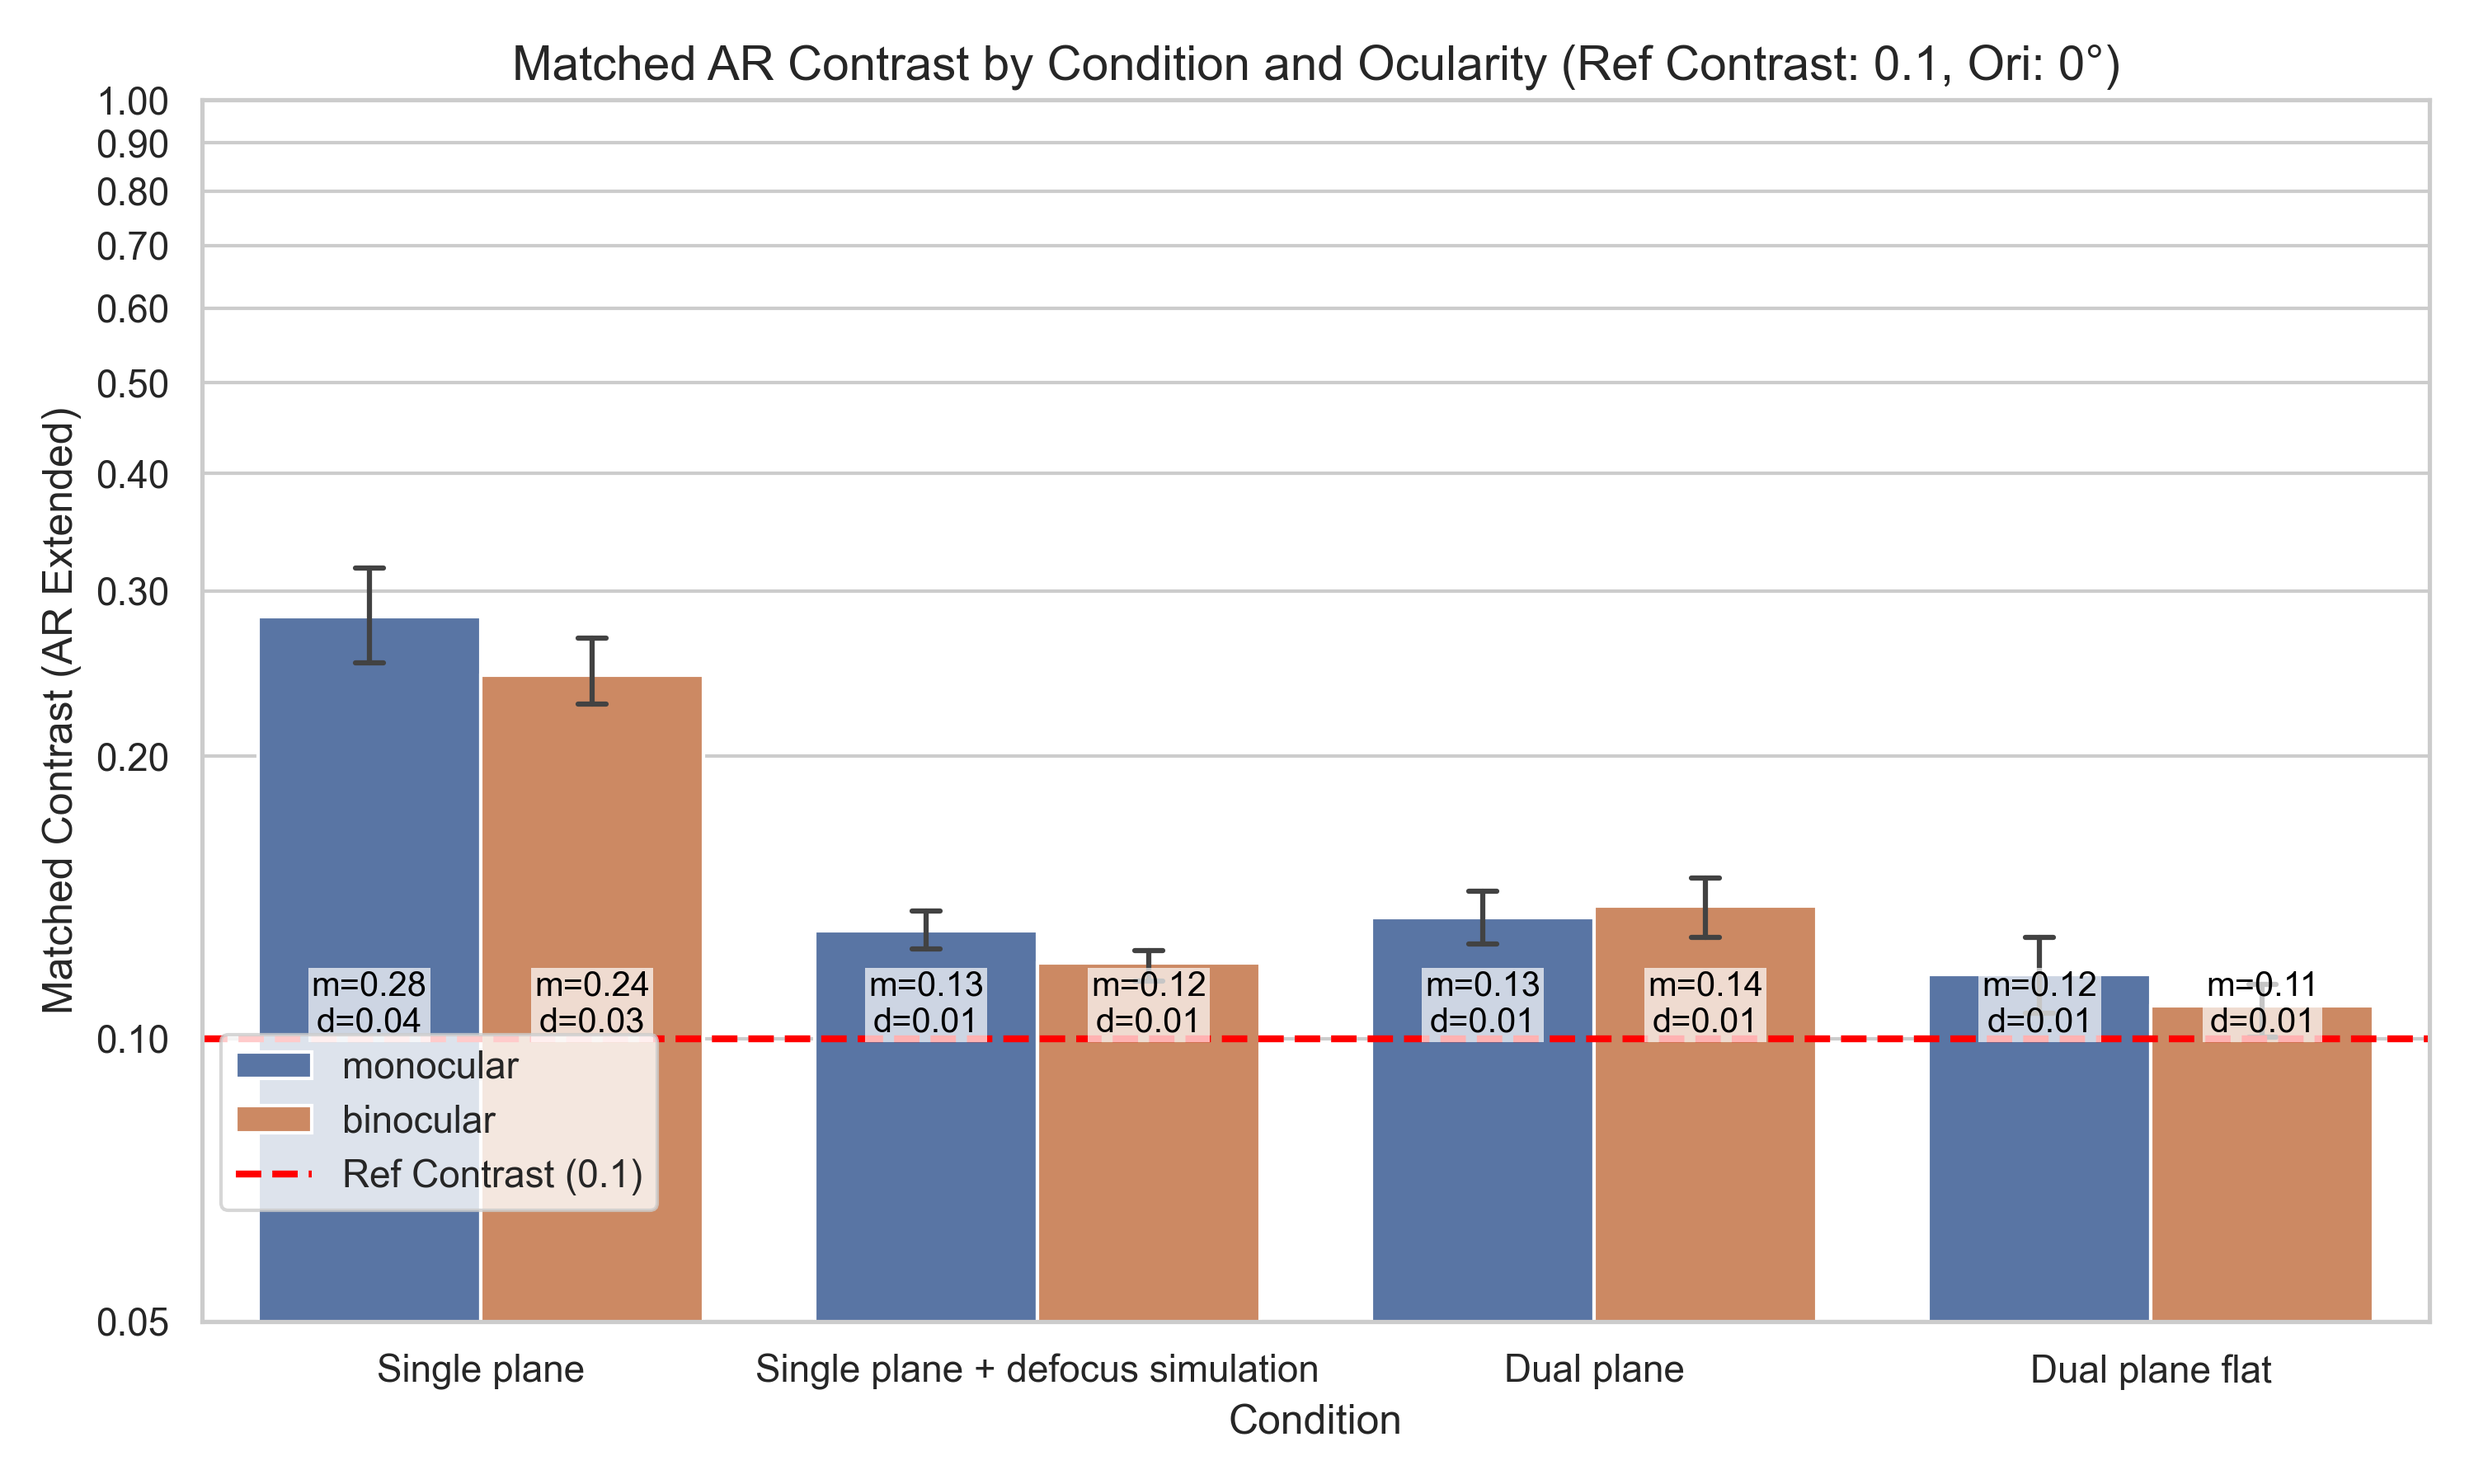
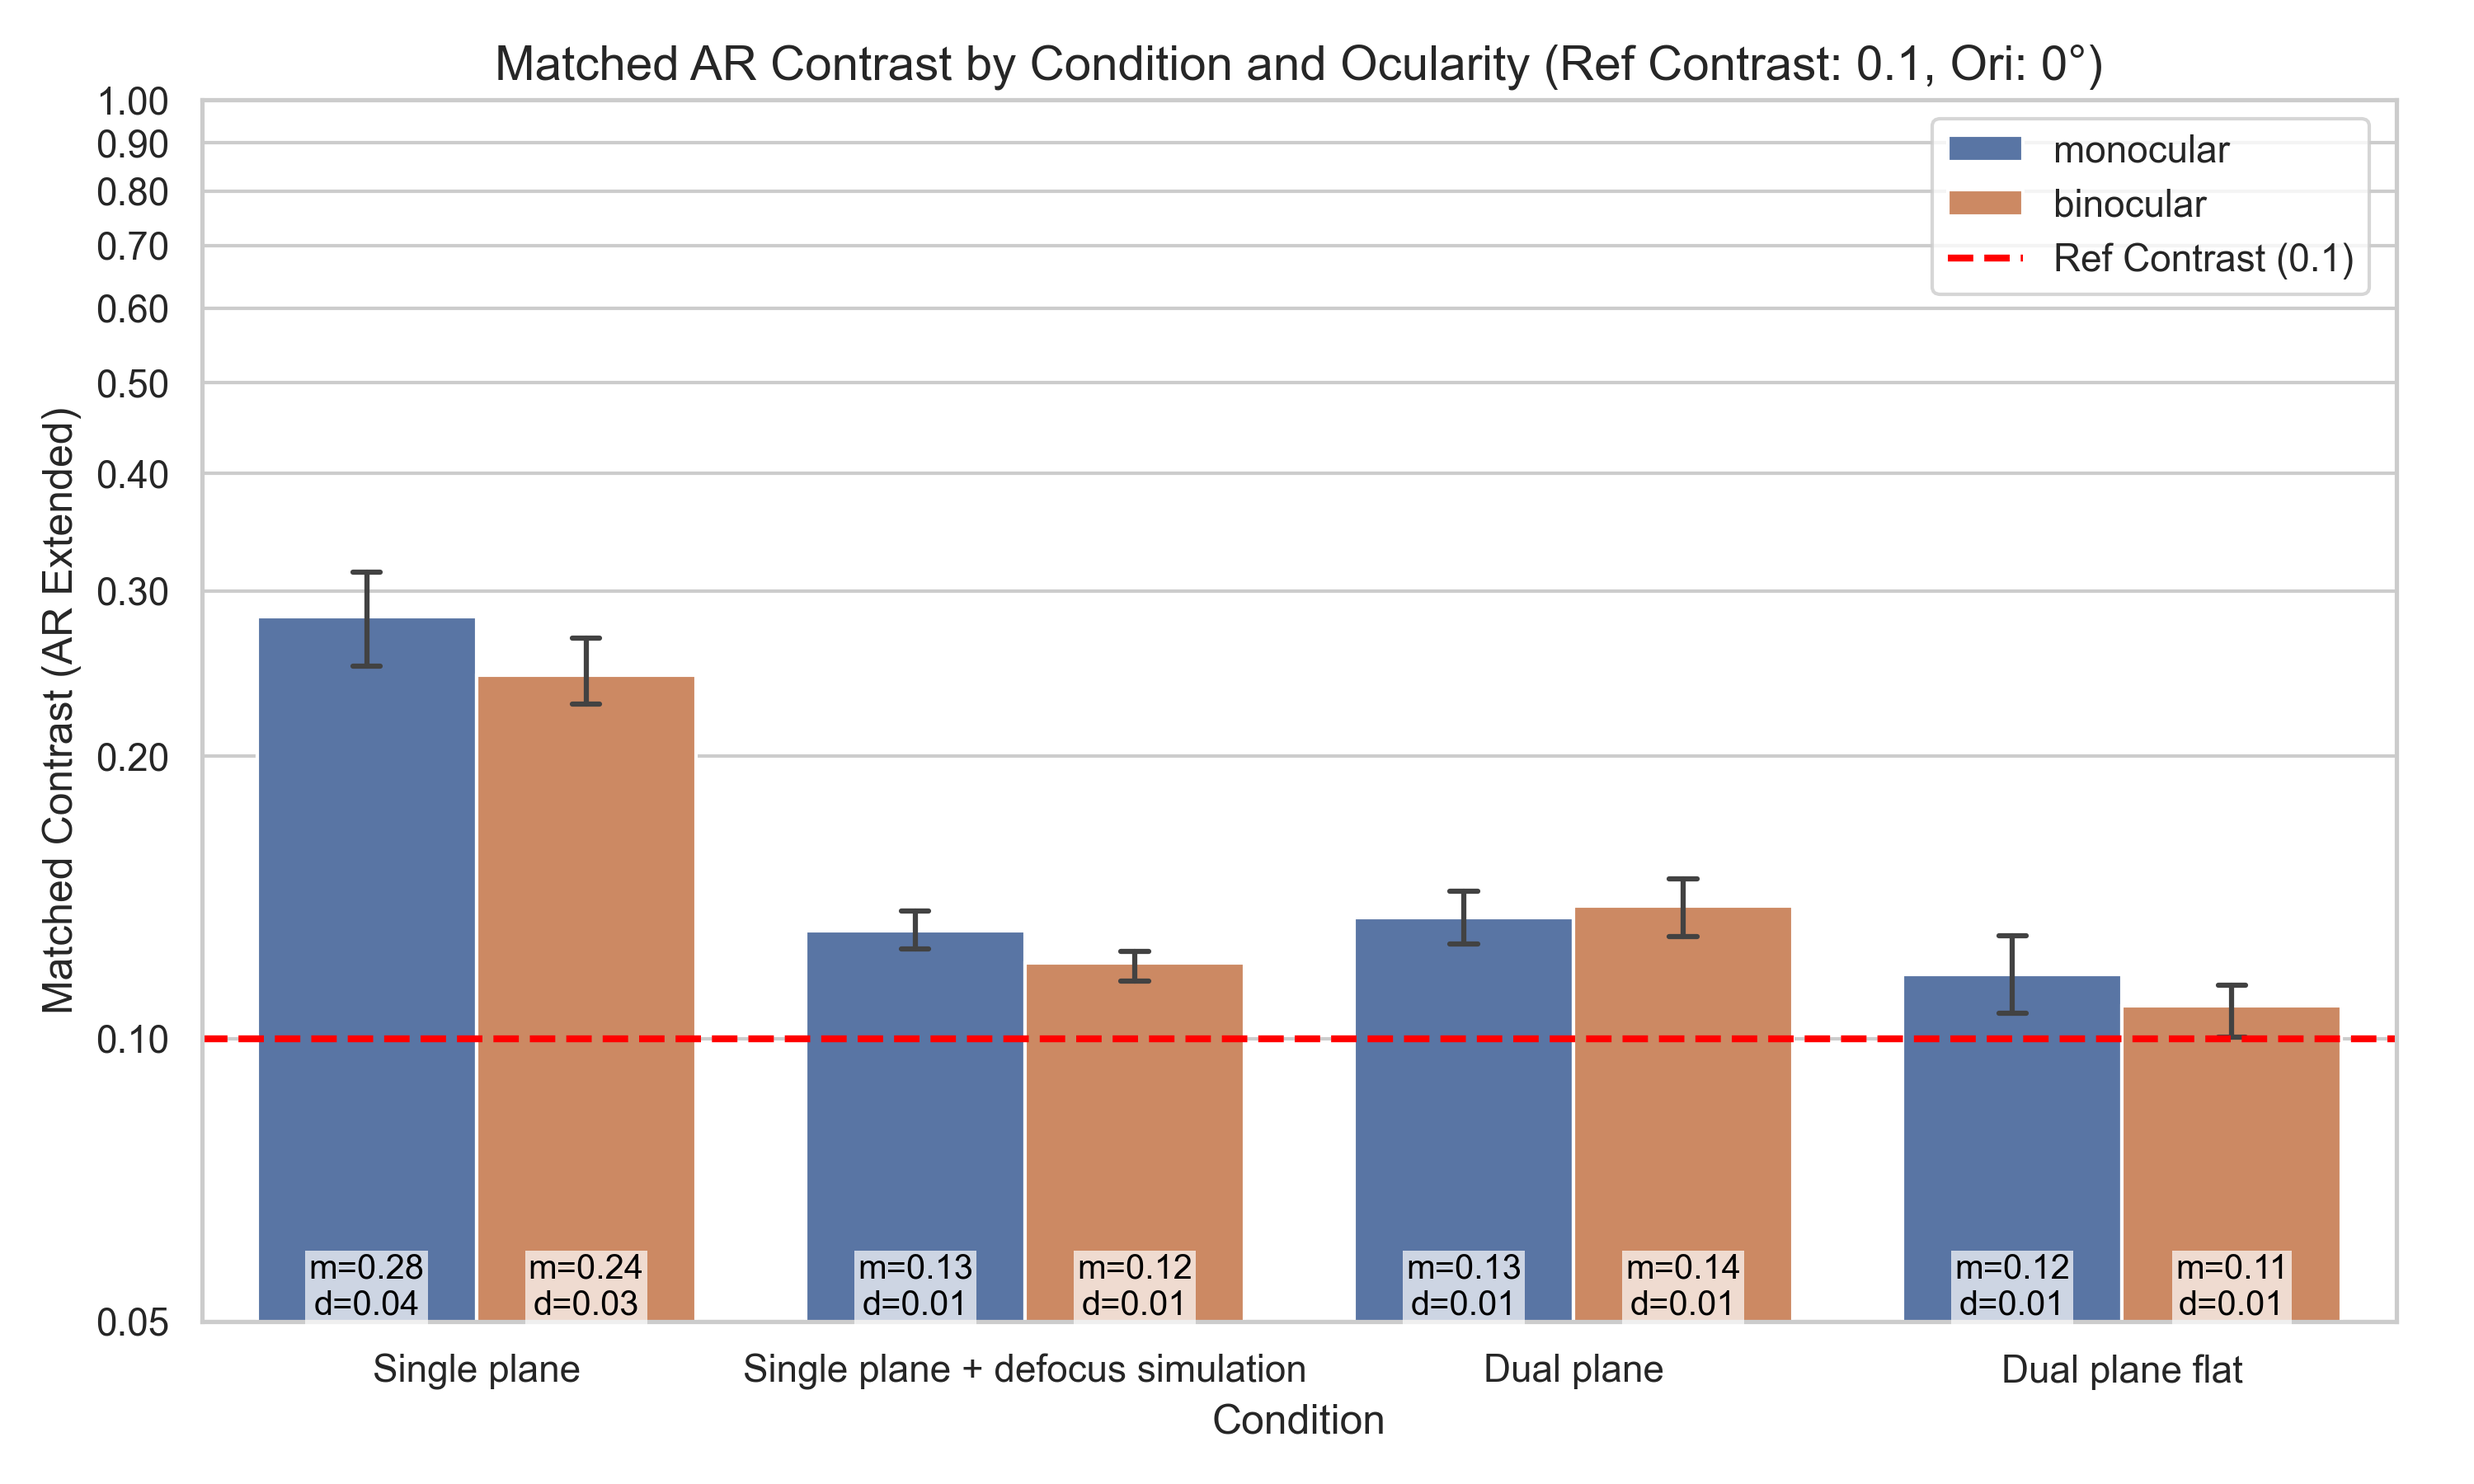
feat: m,d,凡例の表示位置調整

diff --git a/src/experiment/pre-analyze/pre-analyze-matching-ar.py b/src/experiment/pre-analyze/pre-analyze-matching-ar.py
@@ -161,7 +161,7 @@ for ref_c in unique_ref_contrasts:
                             d = subset['Matched_Contrast_AR'].std() 
                             
                             x = p.get_x() + p.get_width() / 2
-                            y = 0.1  # バーの足元付近
+                            y = 0.05  # バーの足元付近
                             
                             ax.text(x, y, f"m={m:.2f}\nd={d:.2f}", ha='center', va='bottom', color='black', fontsize=10,
                                     bbox=dict(facecolor='white', alpha=0.7, edgecolor='none', pad=1))
@@ -183,7 +183,7 @@ for ref_c in unique_ref_contrasts:
         
         # 凡例の設定
         handles, labels = ax.get_legend_handles_labels()
-        ax.legend(handles=handles, labels=labels, bbox_to_anchor=(0, 0.25), loc='upper left', borderaxespad=0.5)
+        ax.legend(handles=handles, labels=labels, bbox_to_anchor=(0.78, 1.0), loc='upper left', borderaxespad=0.5)
         
         plt.tight_layout()
         
@@ -337,7 +337,7 @@ for ref_c in unique_ref_contrasts:
                             d = subset['Matched_Contrast_Enhanced'].std() 
                             
                             x = p.get_x() + p.get_width() / 2
-                            y = 0.15  # バーの足元付近
+                            y = 0.05  # バーの足元付近
                             
                             ax.text(x, y, f"m={m:.2f}\nd={d:.2f}", ha='center', va='bottom', color='black', fontsize=10,
                                     bbox=dict(facecolor='white', alpha=0.7, edgecolor='none', pad=1))
@@ -356,7 +356,7 @@ for ref_c in unique_ref_contrasts:
         ax.set_xticklabels(labels)
         
         handles, labels = ax.get_legend_handles_labels()
-        ax.legend(handles=handles, labels=labels, bbox_to_anchor=(0, 0.25), loc='upper left', borderaxespad=0.5)
+        ax.legend(handles=handles, labels=labels, bbox_to_anchor=(0.78, 1.0), loc='upper left', borderaxespad=0.5)
         
         plt.tight_layout()
         
@@ -403,7 +403,7 @@ for ref_c in unique_ref_contrasts:
                             d = subset['Matched_Contrast'].std() 
                             
                             x = p.get_x() + p.get_width() / 2
-                            y = 0.1  # バーの足元付近
+                            y = 0.05  # バーの足元付近
                             
                             ax.text(x, y, f"m={m:.2f}\nd={d:.2f}", ha='center', va='bottom', color='black', fontsize=10,
                                     bbox=dict(facecolor='white', alpha=0.7, edgecolor='none', pad=1))
@@ -422,7 +422,7 @@ for ref_c in unique_ref_contrasts:
         ax.set_xticklabels(labels)
         
         handles, labels = ax.get_legend_handles_labels()
-        ax.legend(handles=handles, labels=labels, bbox_to_anchor=(0, 0.25), loc='upper left', borderaxespad=0.5)
+        ax.legend(handles=handles, labels=labels, bbox_to_anchor=(0.78, 1.0), loc='upper left', borderaxespad=0.5)
         
         plt.tight_layout()
         
